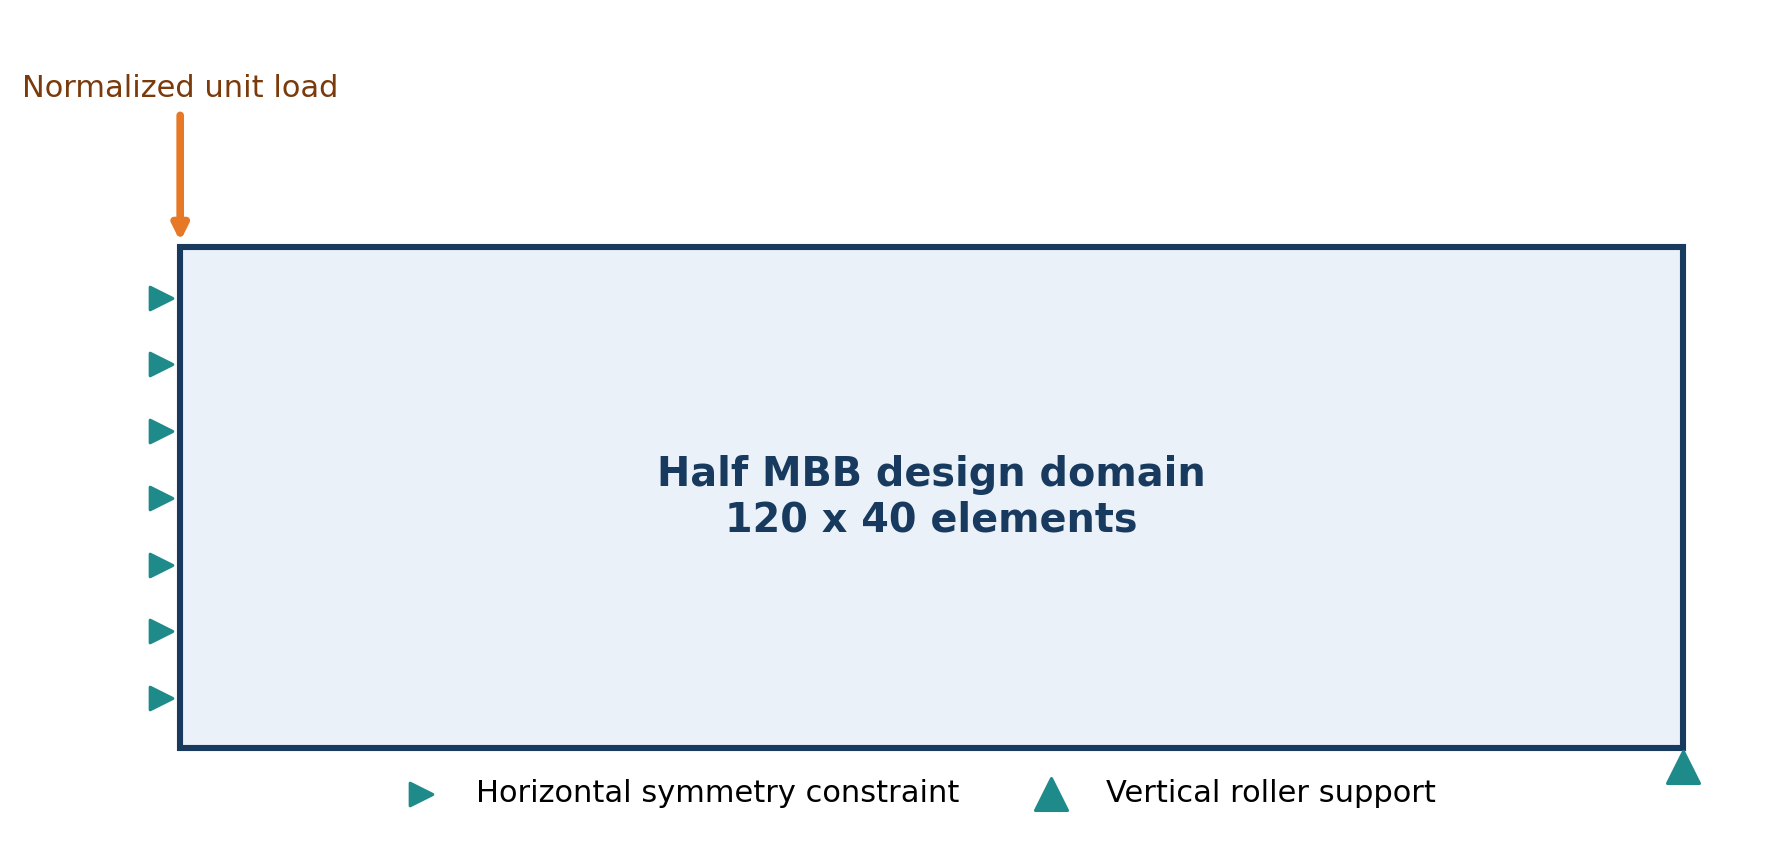
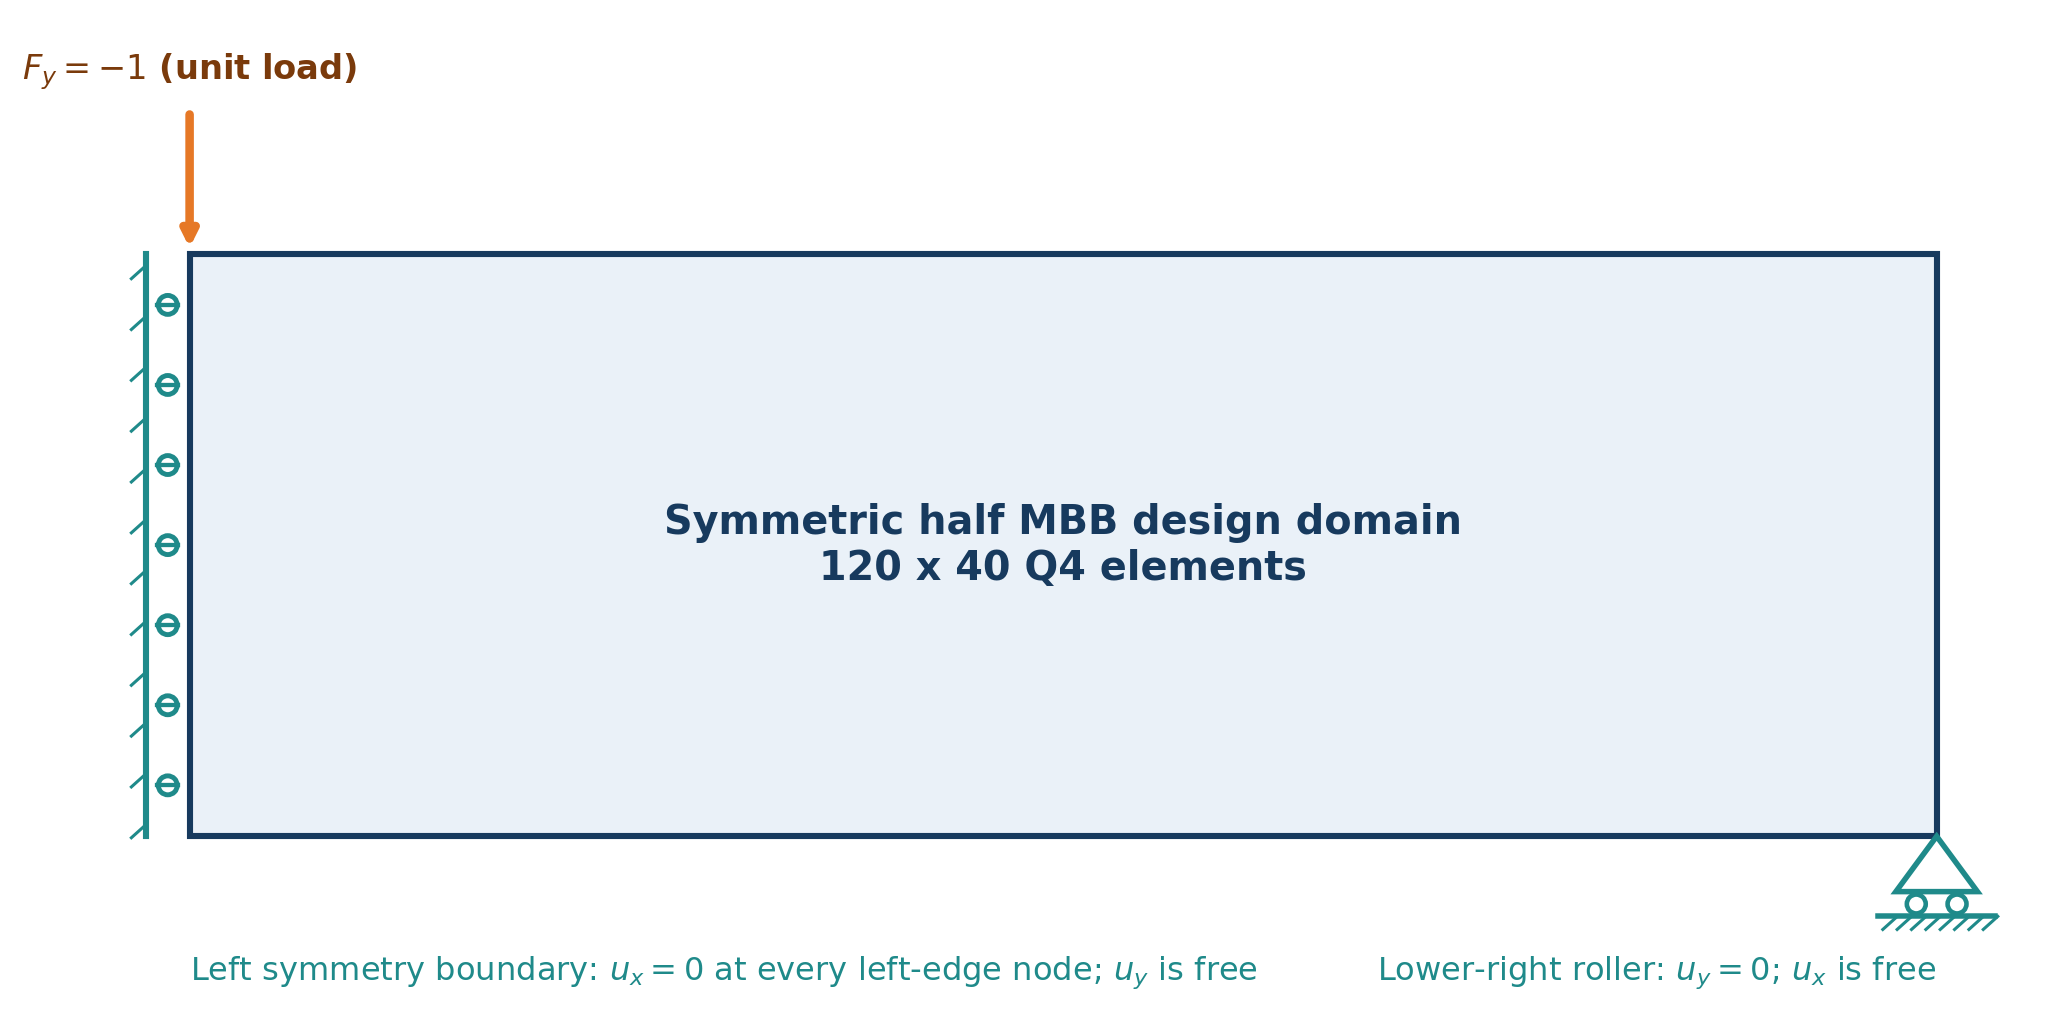
Fix Project 1 boundary diagram and math rendering

Changed region(s): [[0.0, 0.0303, 0.996, 0.9697], [0.3113, 0.4848, 0.7159, 0.6364]]

diff --git a/projects/01_problem_formulation/src/top88.py b/projects/01_problem_formulation/src/top88.py
@@ -328,60 +328,116 @@ def topology_optimization(
 
 
 def save_problem_setup(settings: Top88Settings, path: Path) -> None:
-    """Draw the half MBB domain, unit load, symmetry edge, and roller support."""
+    """Draw boundary conditions that exactly match ``half_mbb_load_and_supports``."""
 
-    fig, ax = plt.subplots(figsize=(10.5, 4.0))
+    fig, ax = plt.subplots(figsize=(11.5, 4.8))
+    navy = "#173A5E"
+    teal = "#1F8A8A"
+    orange = "#E67826"
     ax.add_patch(
         plt.Rectangle(
             (0, 0),
             settings.nelx,
             settings.nely,
             facecolor="#EAF1F8",
-            edgecolor="#173A5E",
+            edgecolor=navy,
             linewidth=2,
         )
     )
+
+    # force[1] = -1.0: downward vertical force at the upper-left node
     ax.annotate(
-        "Normalized unit load",
+        "",
         xy=(0, settings.nely),
-        xytext=(0, settings.nely + 12),
+        xytext=(0, settings.nely + 10),
+        arrowprops={"arrowstyle": "-|>", "color": orange, "lw": 2.8},
+    )
+    ax.text(
+        0,
+        settings.nely + 11.2,
+        r"$F_y=-1$ (unit load)",
         ha="center",
-        arrowprops={"arrowstyle": "-|>", "color": "#E67826", "lw": 2.5},
+        va="bottom",
         color="#7A3A0B",
-        fontsize=10,
+        fontsize=11,
+        weight="bold",
     )
-    y_locations = np.linspace(4, settings.nely - 4, 7)
-    ax.scatter(
-        np.full_like(y_locations, -1.5),
-        y_locations,
-        marker=">",
-        s=55,
-        color="#1F8A8A",
-        label="Horizontal symmetry constraint",
+
+    # symmetry_dofs: horizontal DOF fixed at every node on the left edge.
+    # Rollers against a vertical wall communicate u_x = 0 while u_y remains free.
+    wall_x = -3.0
+    ax.plot([wall_x, wall_x], [0, settings.nely], color=teal, linewidth=2)
+    for y in np.linspace(3.5, settings.nely - 3.5, 7):
+        ax.plot([wall_x + 0.75, -0.8], [y, y], color=teal, linewidth=1.4)
+        ax.add_patch(
+            plt.Circle(
+                (-1.5, y),
+                0.65,
+                facecolor="white",
+                edgecolor=teal,
+                linewidth=1.6,
+            )
+        )
+    for y in np.linspace(0.8, settings.nely - 0.8, 12):
+        ax.plot([wall_x - 1.0, wall_x], [y - 0.9, y], color=teal, linewidth=1.0)
+
+    # vertical_support = ndof - 1: vertical DOF fixed only at the lower-right node.
+    support_x = settings.nelx
+    ax.add_patch(
+        plt.Polygon(
+            [[support_x, 0], [support_x - 2.8, -3.8], [support_x + 2.8, -3.8]],
+            closed=True,
+            facecolor="white",
+            edgecolor=teal,
+            linewidth=1.8,
+        )
     )
-    ax.scatter(
-        [settings.nelx],
-        [-1.5],
-        marker="^",
-        s=110,
-        color="#1F8A8A",
-        label="Vertical roller support",
-    )
+    for x in (support_x - 1.4, support_x + 1.4):
+        ax.add_patch(
+            plt.Circle(
+                (x, -4.65),
+                0.65,
+                facecolor="white",
+                edgecolor=teal,
+                linewidth=1.5,
+            )
+        )
+    ax.plot([support_x - 4.0, support_x + 4.0], [-5.5, -5.5], color=teal, linewidth=1.8)
+    for x in np.linspace(support_x - 3.7, support_x + 3.2, 8):
+        ax.plot([x, x + 1.0], [-6.4, -5.5], color=teal, linewidth=1.0)
+
     ax.text(
         settings.nelx / 2,
         settings.nely / 2,
-        f"Half MBB design domain\n{settings.nelx} x {settings.nely} elements",
+        f"Symmetric half MBB design domain\n{settings.nelx} x {settings.nely} Q4 elements",
         ha="center",
         va="center",
         fontsize=13,
-        color="#173A5E",
+        color=navy,
         weight="bold",
     )
-    ax.set_xlim(-8, settings.nelx + 5)
-    ax.set_ylim(-7, settings.nely + 18)
+    ax.text(
+        0,
+        -9.3,
+        r"Left symmetry boundary: $u_x=0$ at every left-edge node; $u_y$ is free",
+        ha="left",
+        va="center",
+        color=teal,
+        fontsize=10.5,
+    )
+    ax.text(
+        settings.nelx,
+        -9.3,
+        r"Lower-right roller: $u_y=0$; $u_x$ is free",
+        ha="right",
+        va="center",
+        color=teal,
+        fontsize=10.5,
+    )
+    ax.set_xlim(-7, settings.nelx + 6)
+    ax.set_ylim(-12, settings.nely + 16)
     ax.set_aspect("equal")
     ax.axis("off")
-    ax.legend(loc="lower center", ncol=2, frameon=False)
     fig.tight_layout()
     fig.savefig(path, dpi=220, bbox_inches="tight")
     plt.close(fig)

diff --git a/projects/01_problem_formulation/report/report.md b/projects/01_problem_formulation/report/report.md
@@ -20,7 +20,7 @@ The design goal is to find the material distribution with minimum compliance whi
 The domain contains
 
 $$
-N = 120 \times 40 = 4800
+N = 120 \times 40 = 4800.
 $$
 
 finite elements. Each element has a continuous relative-density design variable:
@@ -81,10 +81,7 @@ $$
 Using element strain energies, the same objective is written explicitly as
 
 $$
-C(\boldsymbol{\rho}) =
-\sum_{e=1}^{N}
-\left[E_{\min}+\rho_e^p(E_0-E_{\min})\right]
-\mathbf{u}_e^{\mathsf T}\mathbf{k}_e^0\mathbf{u}_e.
+C(\boldsymbol{\rho}) = \sum_{e=1}^{N}\left[E_{\min}+\rho_e^p(E_0-E_{\min})\right]\mathbf{u}_e^{\mathsf T}\mathbf{k}_e^0\mathbf{u}_e.
 $$
 
 The matrix `k_e^0` is the unit-modulus stiffness matrix of a four-node square plane-stress element, and `u_e` contains its eight displacement degrees of freedom. Lower compliance means smaller load-point displacement and greater global stiffness. Because the benchmark uses normalized modulus, load, dimensions, and thickness, the reported compliance is also normalized rather than expressed in joules or newton-millimeters.
@@ -102,12 +99,7 @@ $$
 The global stiffness matrix is assembled from the density-dependent element matrices:
 
 $$
-\mathbf{K}(\boldsymbol{\rho})=
-\sum_{e=1}^{N}
-\mathbf{A}_e^{\mathsf T}
-\left[E_{\min}+\rho_e^p(E_0-E_{\min})\right]
-\mathbf{k}_e^0
-\mathbf{A}_e.
+\mathbf{K}(\boldsymbol{\rho}) = \sum_{e=1}^{N}\mathbf{A}_e^{\mathsf T}\left[E_{\min}+\rho_e^p(E_0-E_{\min})\right]\mathbf{k}_e^0\mathbf{A}_e.
 $$
 
 The boundary conditions are
@@ -129,10 +121,7 @@ These equations enforce force balance, symmetry, and removal of rigid-body motio
 The design may use no more than half of the full-domain material:
 
 $$
-\frac{V(\boldsymbol{\rho})}{V_0}
-=
-\frac{\sum_{e=1}^{N}v_e\rho_e}{\sum_{e=1}^{N}v_e}
-\leq 0.50.
+\frac{V(\boldsymbol{\rho})}{V_0} = \frac{\sum_{e=1}^{N}v_e\rho_e}{\sum_{e=1}^{N}v_e} \leq 0.50.
 $$
 
 Because all elements have equal volume, this reduces to
@@ -156,8 +145,7 @@ $$
 The complete finite-dimensional problem is:
 
 $$
-\min_{\boldsymbol{\rho},\mathbf{u}}
-\quad \mathbf{F}^{\mathsf T}\mathbf{u}.
+\min_{\boldsymbol{\rho},\mathbf{u}} \quad \mathbf{F}^{\mathsf T}\mathbf{u}.
 $$
 
 It is subject to the equilibrium constraint
